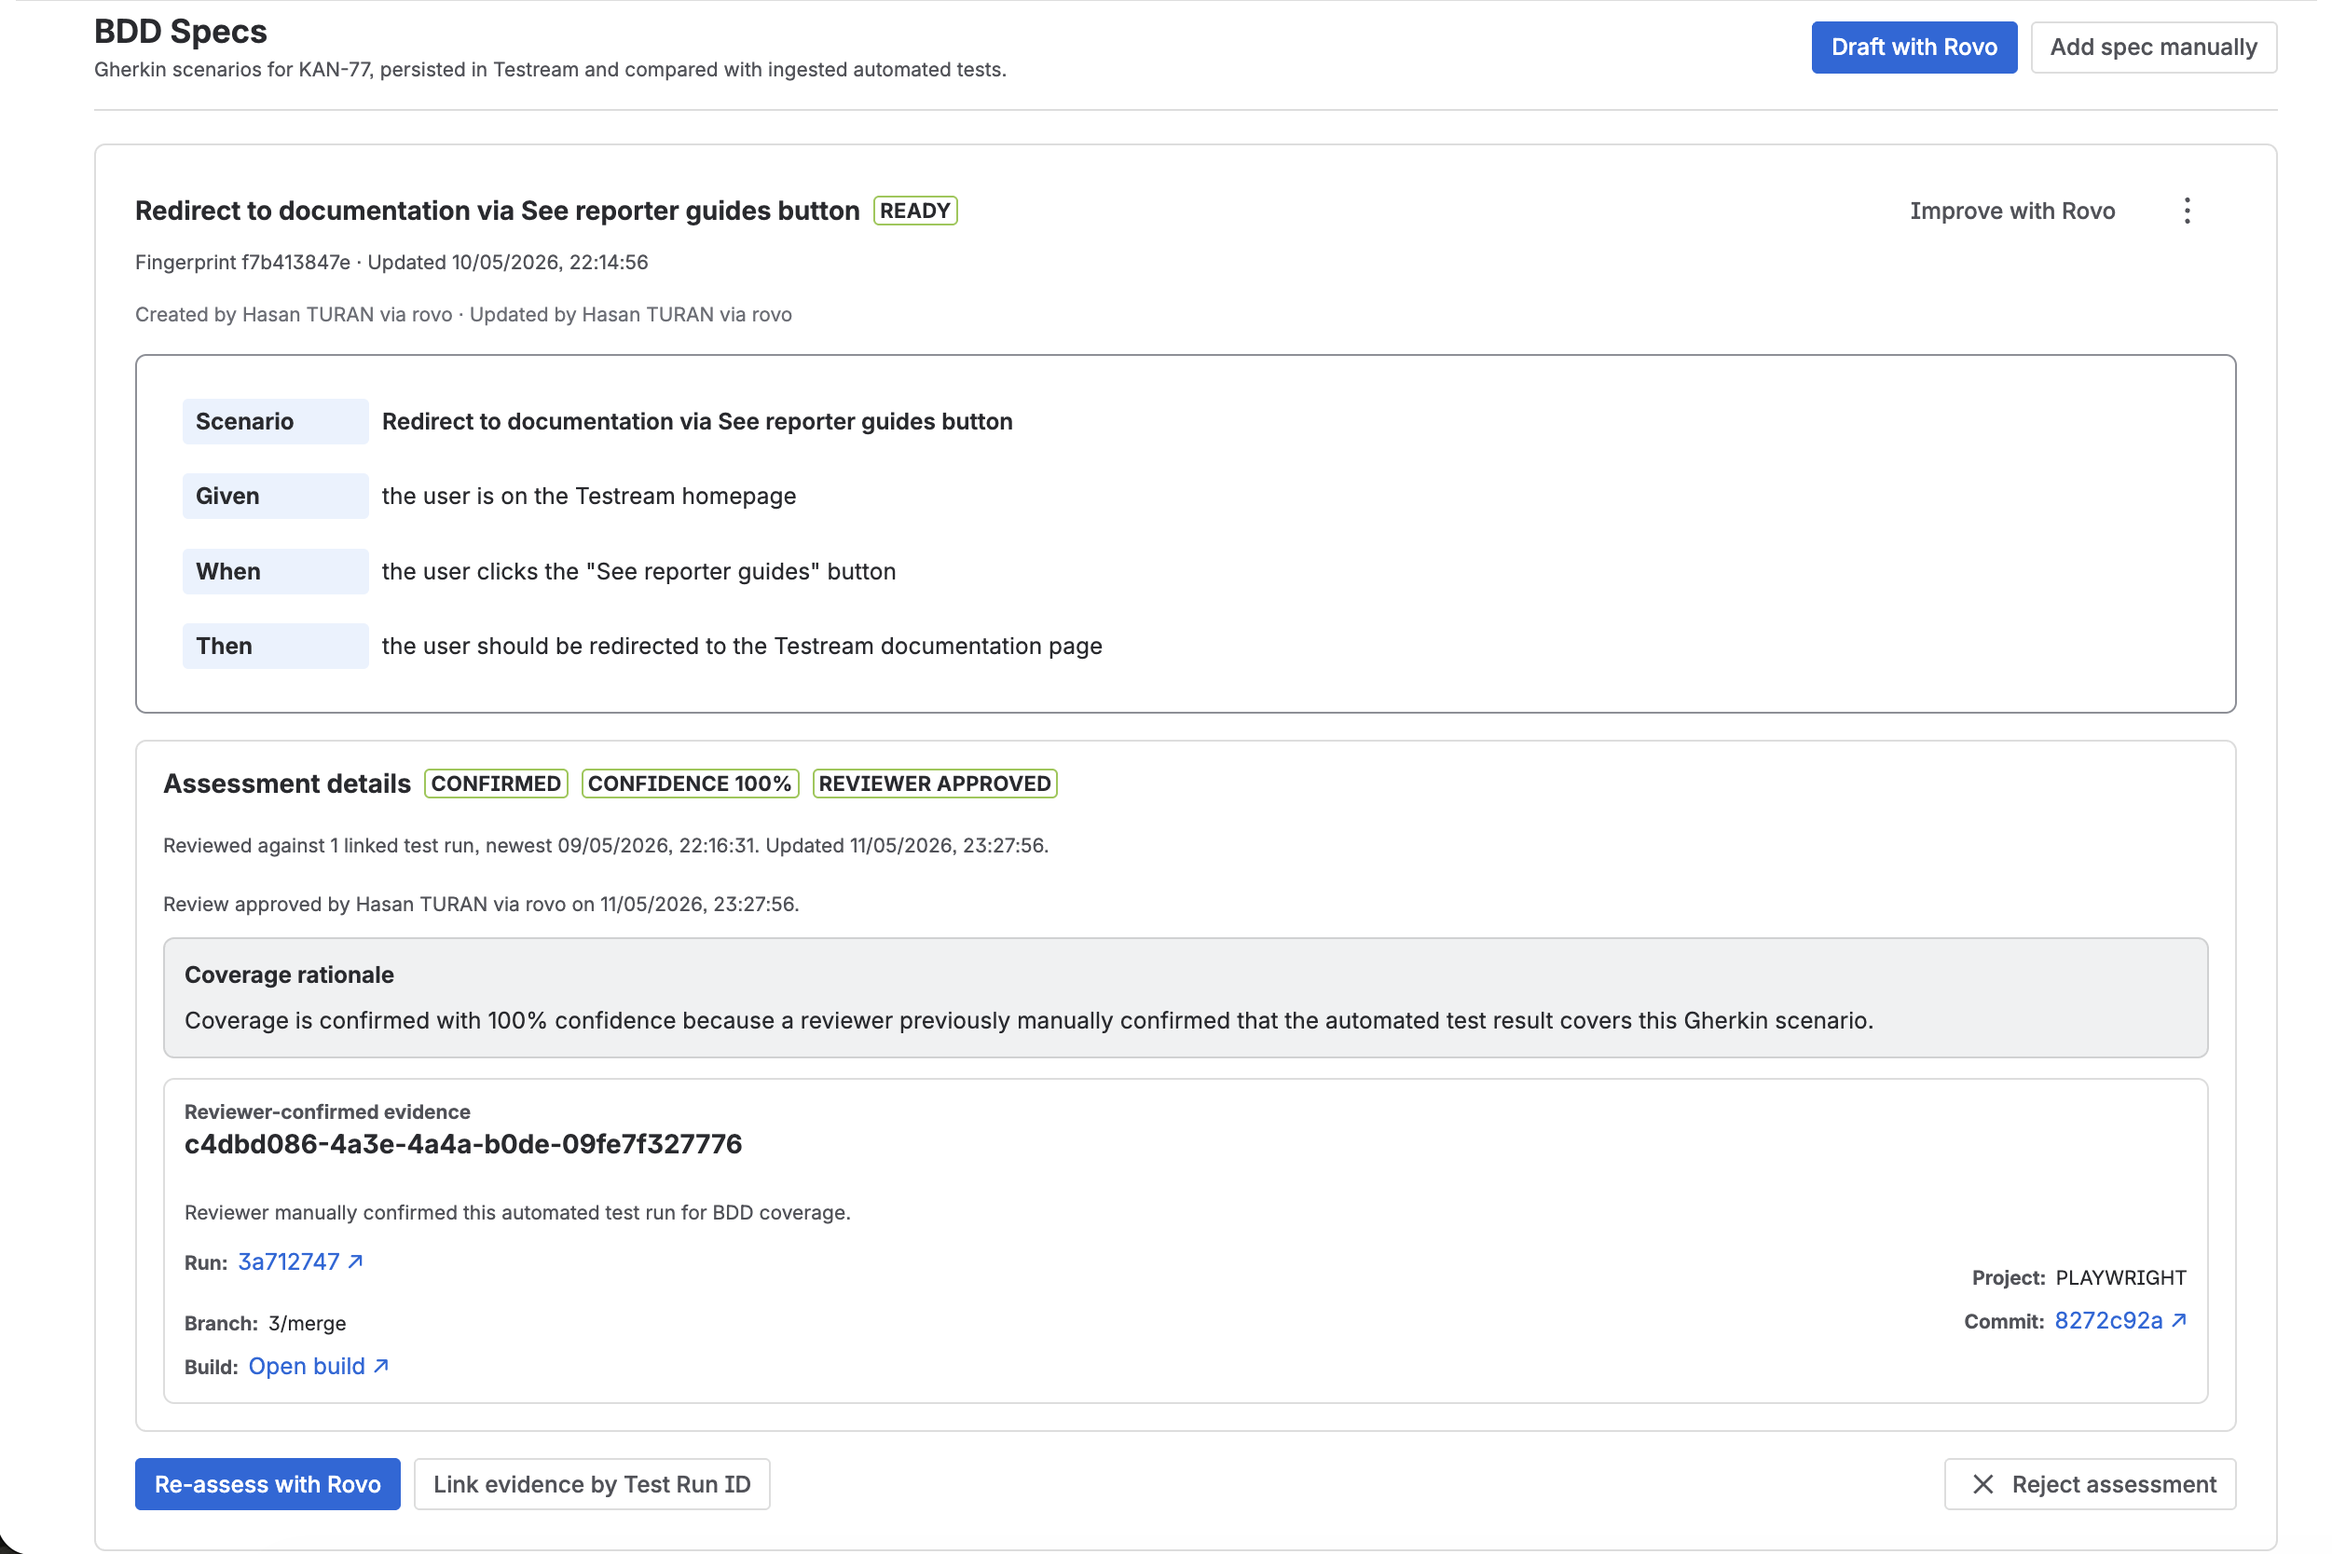
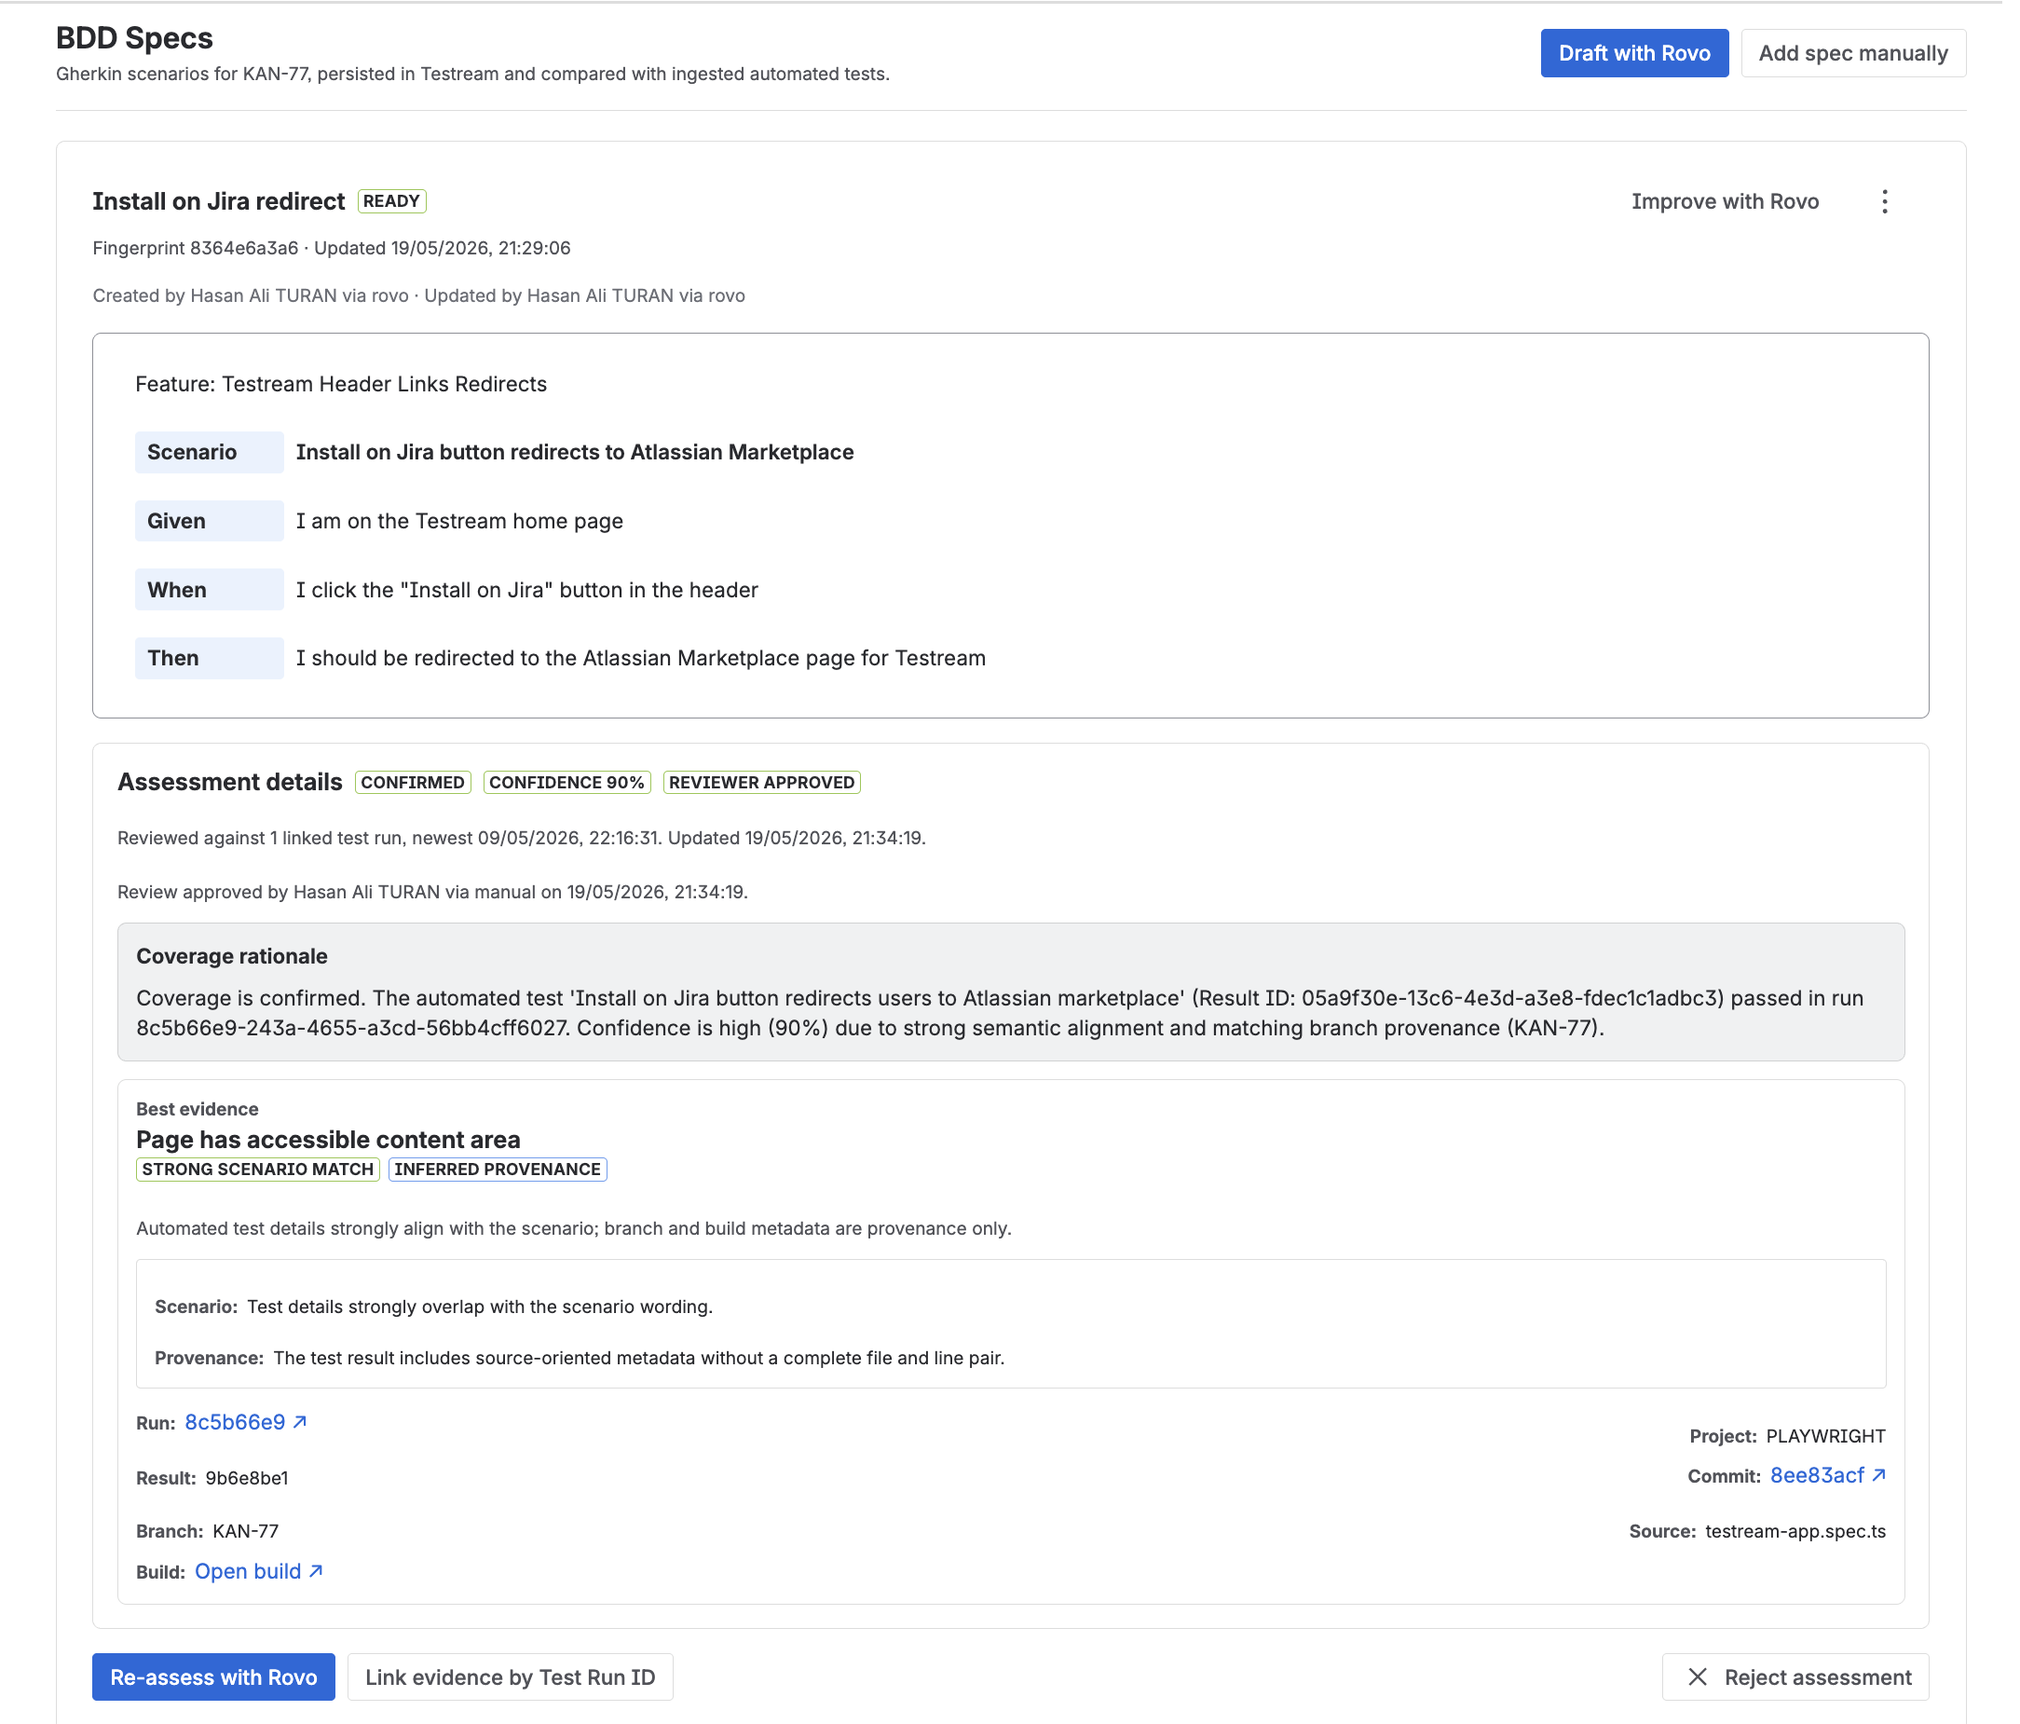
feat: enhance BDD Gherkin specs documentation and add related images

diff --git a/docs/features/bdd-gherkin-specs.md b/docs/features/bdd-gherkin-specs.md
@@ -2,10 +2,70 @@
 sidebar_position: 8
 ---
 
-# BDD Gherkin Specs
+# BDD Specs
 
-:::info Coming Soon
-With Testream's BDD Gherkin Specs feature, you can write your acceptance criteria in plain language using Gherkin syntax and **Atlassian Rovo AI** in your Jira issues and asses them against the test results and context automatically captured by Testream. This allows you to ensure that your tests are aligned with your requirements and easily identify any gaps in test coverage.
+Create and refine Jira issue-level acceptance criteria in Gherkin with **Atlassian Rovo**, and assess them against the test evidence Testream captures from your CI/CD runs.
+
+:::info Adding BDD Specs to Jira Issues
+Testream BDD Specs section is added from the Jira issue detail view. If you do not see it on the issue, open the issue layout controls and add the **Testream BDD Specs** app to the issue view. Jira can hide app sections behind issue layout settings, so this only needs to be done when the section is not already visible.
+![Add Testream BDD Gherkin Specs](/img/jira/BDD-Gherkin-Add-Jira-Issue.png)
 :::
 
+## What Are BDD Specs?
+
+BDD Specs are feature and scenario descriptions stored in Jira issues. They use familiar Gherkin syntax so teams can describe expected behavior in a format that is easy to read and review:
+
+```gherkin
+Feature: Reporter guides redirection
+
+Scenario: 'See reporter guides' button redirects to documentation
+  Given I am on the Testream homepage
+  When I click the 'See reporter guides' button in the header
+  Then I should be redirected to the Testream documentation page
+```
+
+Use them to keep requirements, test evidence, and coverage decisions close to the Jira work item they belong to. An example Testream BDD Spec can be seen below image. The spec describes a criteria for a new featue and with the details Testream native reporters automatically capture, Rovo can assess whether the criteria is covered by the available test evidence making use of test code snippets, test names, tags, artifacts, and other metadata to find the best matching tests and determine if the scenario is adequately covered.
+
 ![BDD Gherkin Specs in Jira Issues](/img/jira/BDD-Gherkin-Specs.png)
+
+## Create and Improve BDD Specs with Rovo
+
+Start from the detail view of a Jira issue and write a scenario yourself, or ask Rovo to create or improve BDD Gherkin specs for you using natural language. Rovo can help turn rough acceptance criteria into a clearer Gherkin spec while keeping the scenario tied to the issue.
+
+![Create BDD Gherkin Specs with Rovo](/img/jira/BDD-Rovo-Gherkin-Dialog.png)
+
+## Review a Rovo Assessment
+
+When you assess coverage, Testream sends Rovo the linked test context for the issue. Rovo reviews the BDD spec against the available evidence and returns a coverage decision, confidence score, rationale, and best matching evidence.
+
+The assessment can use:
+
+- Linked test runs from the Jira issue
+- Matching test names, suites, tags, and steps
+- Source snippets captured by Testream reporters
+- Screenshots, traces, and other test artifacts
+- Branch, build, commit, and repository context
+- Reviewer-linked runs as additional evidence
+
+## Link Evidence Manually
+
+If a test run is relevant but was not linked automatically, you can link evidence by Test Run ID. Manual links help guide the assessment, but you should still review the matched tests and rationale before approving the result.
+
+## Approve or Reject Assessments
+
+After Rovo completes an assessment, review the rationale and best evidence before accepting it. Approving an assessment records that the team agrees with the coverage decision. Rejecting it keeps the scenario available for another review after the spec or test evidence changes.
+
+## Best Practices
+
+- Keep each scenario focused on one behavior.
+- Prefer concrete `Given`, `When`, and `Then` steps over broad statements.
+- Use the latest Testream reporters so source snippets and richer evidence are captured.
+- Treat manual links as reviewer guidance, then confirm the matched tests actually cover the scenario.
+- Re-assess after changing a BDD spec or adding new tests.
+
+## Related Features
+
+- [Test Run Summaries in Jira Issues](./test-run-summaries-in-jira-issues)
+- [Test Run Details](./test-run-details)
+- [Failure Inspection](./failure-inspection)
+- [Jira Integration Usage](../jira-integration/usage)

diff --git a/docs/jira-integration/overview.md b/docs/jira-integration/overview.md
@@ -17,6 +17,7 @@ The Testream for Jira integration brings comprehensive test reporting directly i
 - **[Trends & Analytics](../features/trends-analytics)** - Track pass/fail trends, test suite growth, and duration patterns over time.
 - **[Release Management](../features/release-management)** - Link test runs to Jira releases and monitor quality metrics per version.
 - **[PDF Reports](../features/pdf-reports)** - Generate downloadable PDF summaries of test runs with pass rates, errors, and screenshots.
+- **[BDD Specs](../features/bdd-gherkin-specs)** - Write Gherkin scenarios in Jira issues and assess them against linked Testream evidence with Rovo.
 
 ## Who Should Use This Integration?
 

diff --git a/docs/jira-integration/usage.md b/docs/jira-integration/usage.md
@@ -29,6 +29,7 @@ For detailed guides on each feature, visit the dedicated pages:
 - **[Trends & Analytics](../features/trends-analytics)** - Historical performance charts and analysis
 - **[Release Management](../features/release-management)** - Linking test runs to Jira releases
 - **[PDF Reports](../features/pdf-reports)** - Generating downloadable PDF summaries
+- **[BDD Specs](../features/bdd-gherkin-specs)** - Creating Gherkin scenarios in Jira issues and assessing coverage with Rovo
 
 ## Best Practices
 
